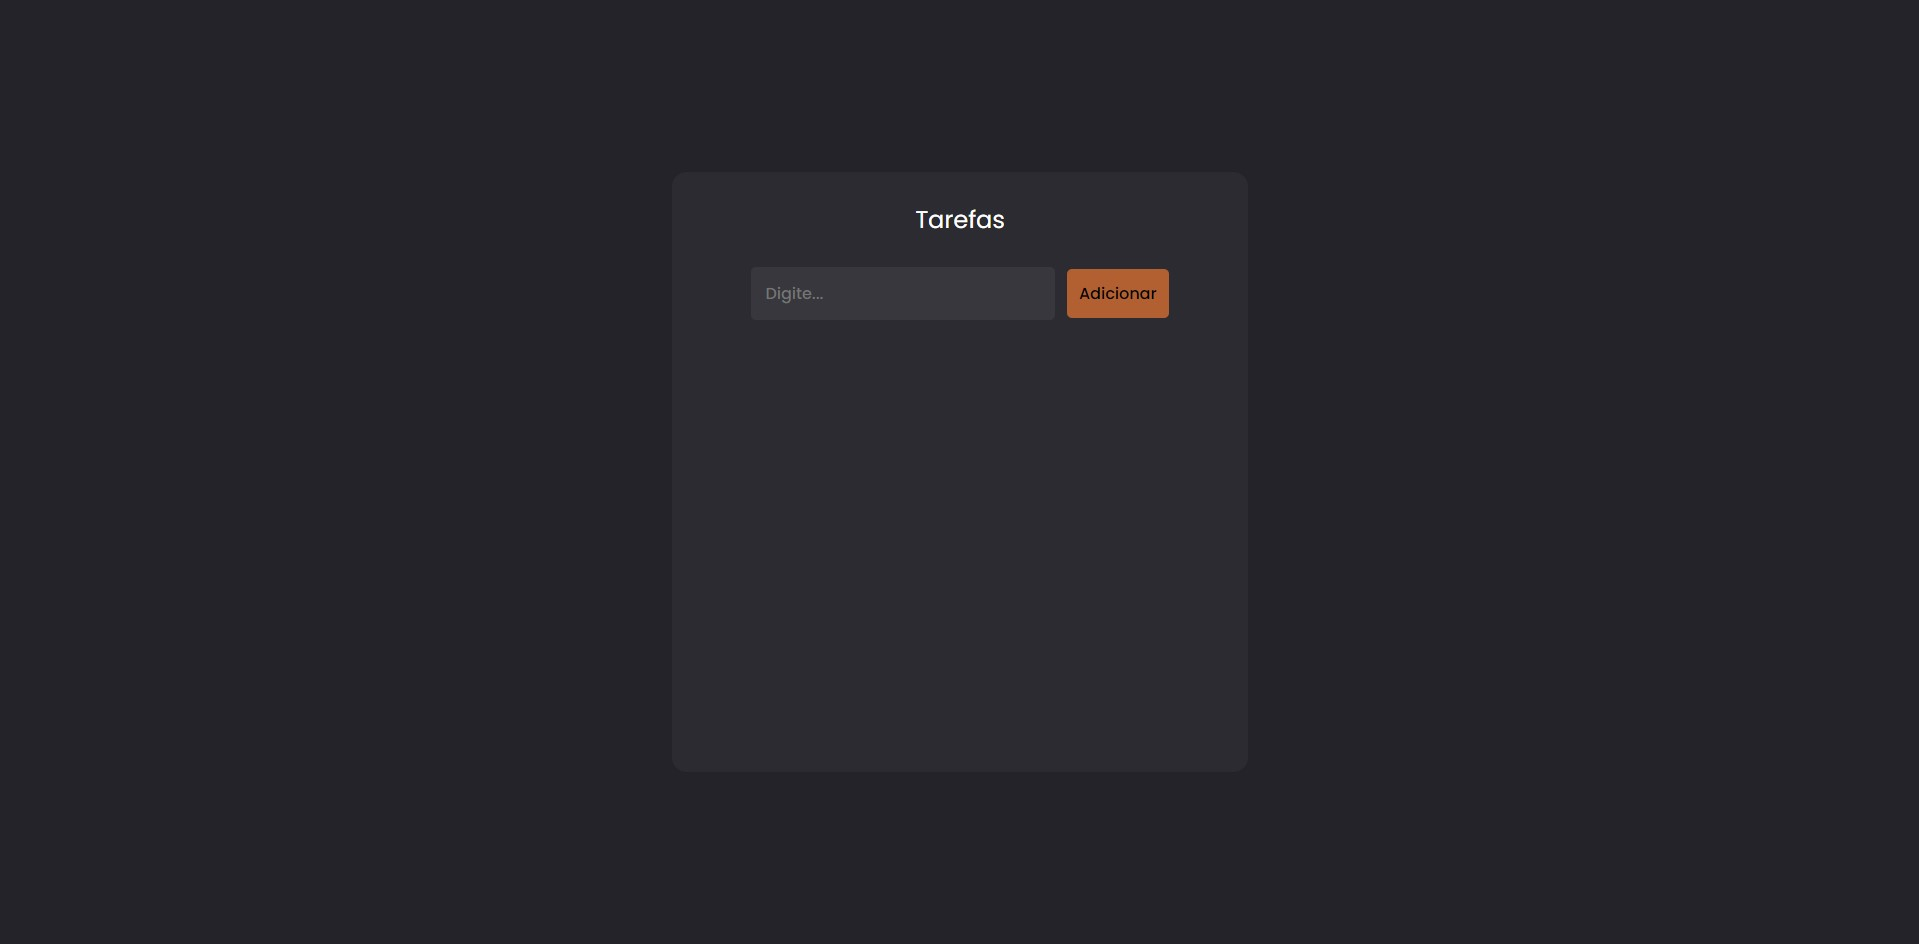
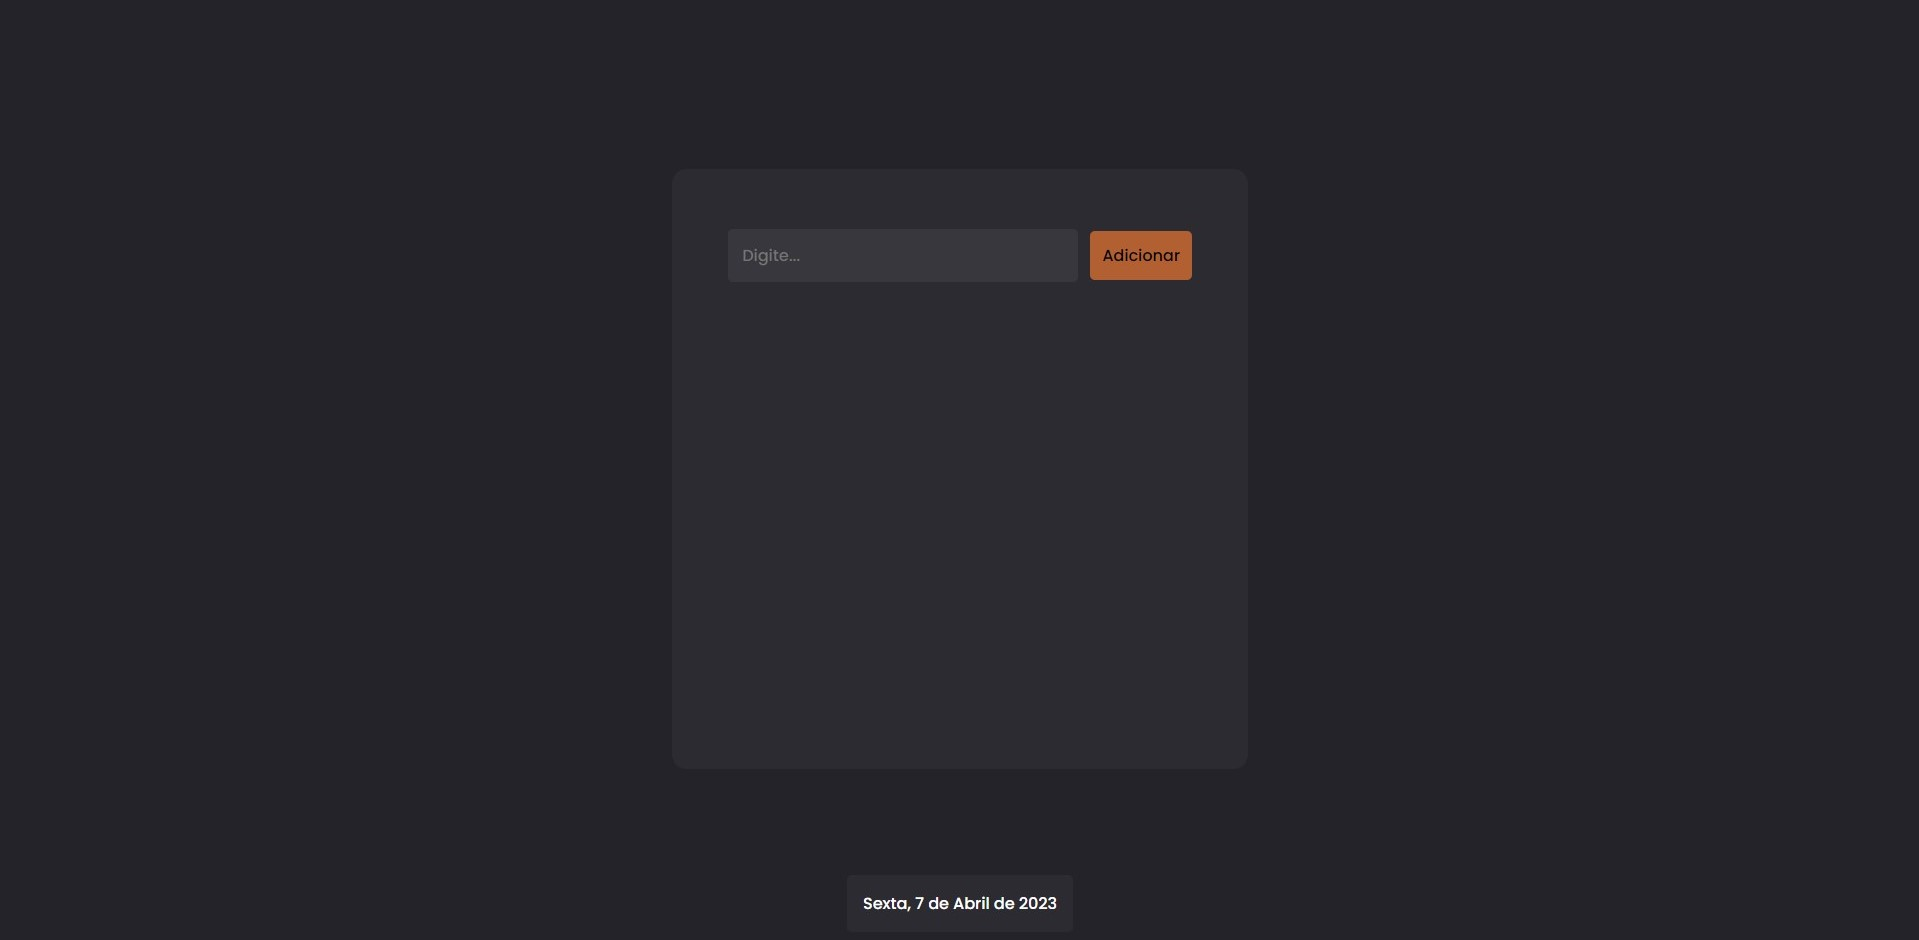
Pequenas alterações

diff --git a/assets/js/scripts.js b/assets/js/scripts.js
@@ -1,11 +1,61 @@
-// Consts
+// Query selectors
 const inputElement = document.querySelector(".new-task-input");
 const addTaskButton = document.querySelector(".new-task-button");
 const tasksContainer = document.querySelector(".tasks-container");
+const today = document.querySelector("#today");
+
+// Get current date
+let day = new Date();
+
+// Get days of the week
+let daysOfTheWeek = [
+  "Domingo",
+  "Segunda",
+  "Terça",
+  "Quarta",
+  "Quinta",
+  "Sexta",
+  "Sábado",
+];
+
+// Get months
+let month = [
+  "Janeiro",
+  "Fevereiro",
+  "Março",
+  "Abril",
+  "Maio",
+  "Junho",
+  "Julho",
+  "Agosto",
+  "Setembro",
+  "Outubro",
+  "Novembro",
+  "Dezembro",
+];
+
+// Get week
+let week = daysOfTheWeek[day.getDay()];
+
+// Get date
+let currentDate = day.getDate();
+
+// Get month
+let currentMonth = month[day.getMonth()];
+
+// Get year
+let year = day.getFullYear();
+
+// Get full date
+let fullDate = `${week}, ${currentDate} de ${currentMonth} de ${year}`;
+
+// Set date
+today.innerHTML = fullDate;
 
 // Functions
 const validateInput = () => inputElement.value.trim().length > 0;
 
+// Add task
 const handleAddTask = () => {
   // Validate input
   const inputIsValid = validateInput();
@@ -71,21 +121,23 @@ if (inputElement)
 // Toastify
 const addTaskAlert = () => {
   Toastify({
-    text: "Tarefa adicionada ✔",
+    text: "Tarefa adicionada",
     duration: 1500,
-    gravity: "bottom",
-    position: "center",
+    gravity: "top",
+    position: "right",
     stopOnFocus: true,
+    backgroundColor: "#008000",
   }).showToast();
 };
 
 const deleteTaskAlert = () => {
   Toastify({
-    text: "Tarefa deletada ❌",
+    text: "Tarefa deletada",
     duration: 1500,
-    gravity: "bottom",
-    position: "center",
+    gravity: "top",
+    position: "right",
     stopOnFocus: true,
+    backgroundColor: "#ff0000",
   }).showToast();
 };
 

diff --git a/assets/css/styles.css b/assets/css/styles.css
@@ -25,13 +25,16 @@ body {
 }
 
 body .toastify {
-  background: var(--primary-color);
-  color: #000;
+  color: #fff;
   border-radius: 5px;
   padding: 12px;
   font-size: 1rem;
   font-weight: 500;
   box-shadow: none;
+}
+
+.teste {
+  background: pink;
 }
 
 ::-webkit-scrollbar {
@@ -58,9 +61,9 @@ body .toastify {
   animation: fade 0.6s ease;
 }
 
-h2 {
+h4 {
   color: var(--text-color);
-  font-weight: normal;
+  font-weight: 500;
 }
 
 .new-task-container {
@@ -72,7 +75,7 @@ h2 {
 }
 
 .new-task-container input {
-  width: 60%;
+  width: 100%;
   max-width: 350px;
   font-size: 1rem;
   border: 2px solid transparent;
@@ -110,13 +113,13 @@ h2 {
   align-items: center;
   justify-content: center;
   flex-direction: column;
-  padding: 5px 20px;
+  padding: 0px 20px;
 }
 
 .task-item {
   display: flex;
   width: 100%;
-  max-width: 418px;
+  max-width: 463px;
   align-items: center;
   justify-content: space-between;
   margin-bottom: 15px;
@@ -141,6 +144,16 @@ h2 {
 .task-item i:hover {
   cursor: pointer;
   background-color: var(--secondary-color);
+}
+
+.menu-day {
+  display: flex;
+  position: fixed;
+  bottom: 0;
+  margin-bottom: 10px;
+  border-radius: 5px;
+  padding: 1rem;
+  background-color: var(--bg-secondary);
 }
 
 /* Utilities */

diff --git a/index.html b/index.html
@@ -52,12 +52,14 @@
   </head>
   <body>
     <div class="container">
-      <h2>Tarefas</h2>
       <div class="new-task-container">
         <input type="text" class="new-task-input" placeholder="Digite..." />
         <button class="new-task-button">Adicionar</button>
       </div>
       <div class="tasks-container"></div>
+    </div>
+    <div class="menu-day">
+      <h4 id="today"></h4>
     </div>
   </body>
 </html>
